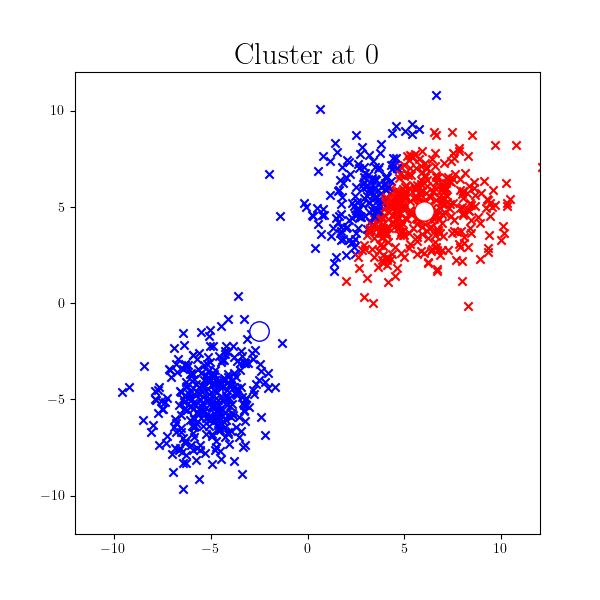
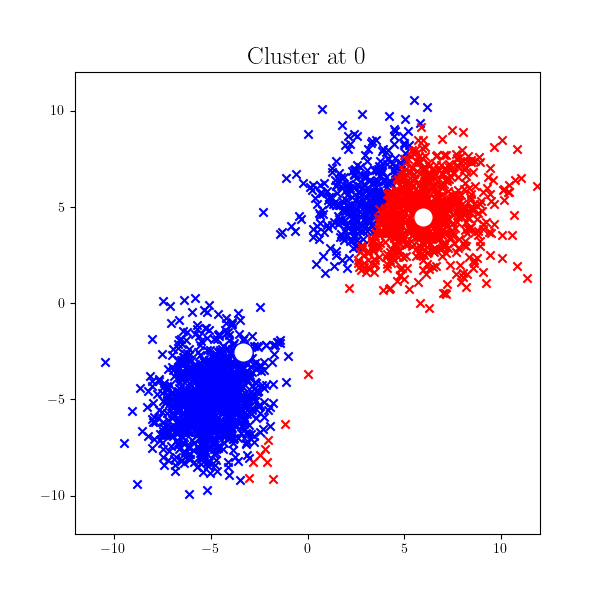
Fix : K means clustering:

diff --git a/Mixture_Models/Modules.py b/Mixture_Models/Modules.py
@@ -1,0 +1,27 @@
+import numpy as np
+import matplotlib.pyplot as plt
+
+def dist(x1,x2):
+    t1 = x1-x2
+    return(np.matmul(t1,t1.T))
+
+def distComp(x):
+    min_dist  = min(x)
+    min_index = np.argmin(x)
+    return(min_index, min_dist)
+
+
+def plotCluster(X,rnk,N,mu_k,img_dir,iter):
+    plt.figure(figsize=(6,6))
+    plt.xlim(-12,12); plt.ylim(-12,12)
+    plt.plot(mu_k[0][0],mu_k[0][1],'ro',mfc='w', markersize=14)
+    plt.plot(mu_k[1][0],mu_k[1][1],'bo',mfc='w', markersize=14)
+    plt.title('Cluster at '+str(iter),fontsize = 18) 
+    for i in range(0,N):
+        cluster  = np.argmax(rnk[i,:])
+        if (cluster == 0):
+            color = 'r'
+        if (cluster == 1):
+            color = 'b'
+        plt.scatter(X[i,0], X[i,1], c = color,marker='x')
+    plt.savefig(img_dir+'Cluster_at'+str(iter)+'.png')
